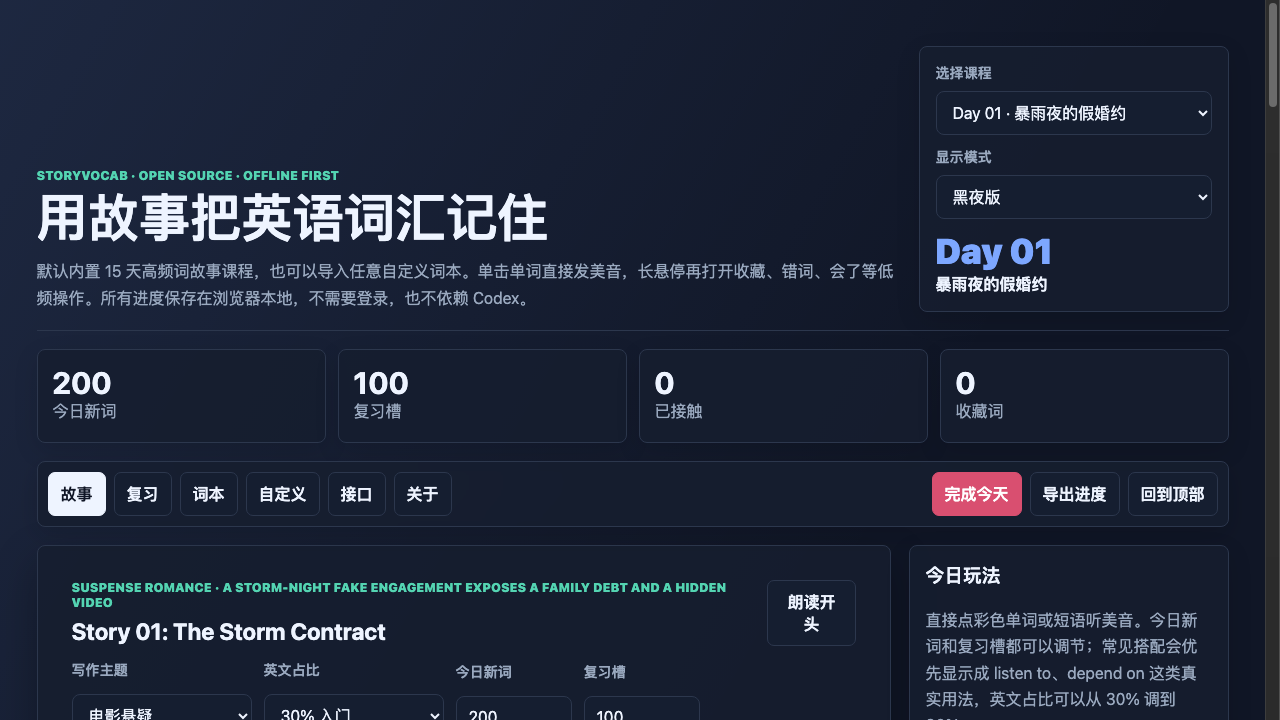
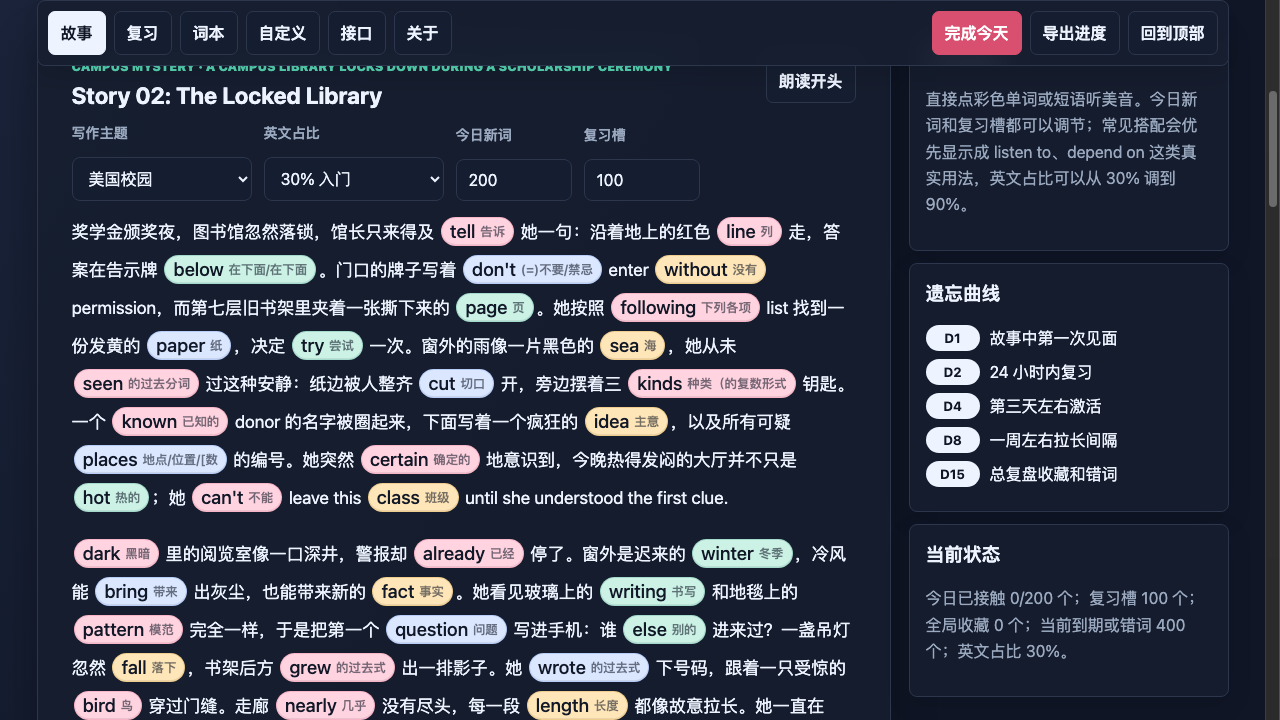
Add authored Day 02 story

diff --git a/src/app.js b/src/app.js
@@ -367,9 +367,32 @@
     return `${profile.mixed[paragraphIndex % profile.mixed.length]} ${c(0)} 先把场景点亮，and ${c(1)} pushed the story forward. 她在 ${c(2)} 和 ${c(3)} 之间做选择，while ${c(4)} kept changing the room. Someone tried to explain ${c(5)}，可真正的问题是 ${c(6)}. Then ${c(7)} became a promise, ${c(8)} became a warning, and ${c(9)} made everyone quiet. 她把 ${c(10)} 写在便签上，把 ${c(11)} 藏进口袋。By the time ${c(12)} appeared, she had to keep ${c(13)} close, test ${c(14)}, and follow the trace of ${c(15)}. 最后一段路上，${c(16)}, ${c(17)}, ${c(18)}, and ${c(19)} together turned the story into a choice.`;
   }
 
+  function dayTwoLockedLibraryStory(items, density) {
+    if (density >= 90) return "";
+    const c = (index) => items[index] ? chip(items[index]) : "";
+    const paragraphs = [
+      `奖学金颁奖夜，图书馆忽然落锁，馆长只来得及 ${c(0)} 她一句：沿着地上的红色 ${c(1)} 走，答案在告示牌 ${c(2)}。门口的牌子写着 ${c(3)} enter ${c(4)} permission，而第七层旧书架里夹着一张撕下来的 ${c(5)}。她按照 ${c(6)} list 找到一份发黄的 ${c(7)}，决定 ${c(8)} 一次。窗外的雨像一片黑色的 ${c(9)}，她从未 ${c(10)} 过这种安静：纸边被人整齐 ${c(11)} 开，旁边摆着三 ${c(12)} 钥匙。一个 ${c(13)} donor 的名字被圈起来，下面写着一个疯狂的 ${c(14)}，以及所有可疑 ${c(15)} 的编号。她突然 ${c(16)} 地意识到，今晚热得发闷的大厅并不只是 ${c(17)}；她 ${c(18)} leave this ${c(19)} until she understood the first clue.`,
+      `${c(20)} 里的阅览室像一口深井，警报却 ${c(21)} 停了。窗外是迟来的 ${c(22)}，冷风能 ${c(23)} 出灰尘，也能带来新的 ${c(24)}。她看见玻璃上的 ${c(25)} 和地毯上的 ${c(26)} 完全一样，于是把第一个 ${c(27)} 写进手机：谁 ${c(28)} 进来过？一盏吊灯忽然 ${c(29)}，书架后方 ${c(30)} 出一排影子。她 ${c(31)} 下号码，跟着一只受惊的 ${c(32)} 穿过门缝。走廊 ${c(33)} 没有尽头，每一段 ${c(34)} 都像故意拉长。她一直在 ${c(35)} 保持冷静，可唯一的 ${c(36)} 太 ${c(37)}：那些缺失的 ${c(38)} 正在自己 ${c(39)} 回来。`,
+      `八点整，墙上的钟只响了 ${c(40)} 下，东侧 ${c(41)} 却打开一道暗缝。她按箭头 ${c(42)} 走，却得到两组相反 ${c(43)}。楼梯间里，某人的 ${c(44)} 从黑布 ${c(45)} 后伸出来，把一台旧投影仪的 ${c(46)} 说明塞给她：这里像一座被切开的 ${c(47)}。十二名 ${c(48)} 在 ${c(49)} 号房间失踪过，又在次日 ${c(50)}。那天 ${c(51)}，校方说只是一次 ${c(52)} 仪式，可档案里的 ${c(53)} 指向西翼。她用 ${c(54)} 摸过墙上的凹槽，朝 ${c(55)} 走去。有人在楼下 ${c(56)}，说保险箱还 ${c(57)}；她却看见椅子上 ${c(58)} 着一本册子，第一页 ${c(59)} 她父亲的签名。`,
+      `册子里没有钱，只有一小包 ${c(60)}、一页校规 ${c(61)}，和一张说明整个 ${c(62)} 的钢印图。图中央是一根 ${c(63)} 柱，旁边写着 ${c(64)} 的名字。这个 ${c(65)} 与年长的 ${c(66)} 教授有关，教授年轻时教 ${c(67)}，语气熟悉得让人 ${c(68)}。她刚把资料收好，书架就被人 ${c(69)} 了一下，二十本书像多米诺骨牌倒下。她听见一声 ${c(70)}，像有人在喊 dear，却又像在 ${c(71)}。储藏室里有半块三明治、几种 ${c(72)}，还有学生会本来 ${c(73)} 会用的元音卡。她本来 ${c(74)} 会看到普通的 ${c(75)} 练习，说明却 ${c(76)} 出彼此 ${c(77)} 的案件，最终指向一个尚未发生的 ${c(78)}，地点写着 ${c(79)}。`,
+      `第二层的社区展厅被改成临时法庭，整个 ${c(80)} 都在屏幕上静音旁观。她推门进去，管理员 ${c(81)} 了一下，像早就等她来，又像被她 ${c(82)} 了。想要 ${c(83)} 这场局，她必须先找出哪一张 ${c(84)} 被调换。她用手 ${c(85)} 开桌面，发现那份文件并不 ${c(86)} 于学校，而是来自一份 ${c(87)} 报告。旁边整齐摆着几件 ${c(88)}、一张 ${c(89)} 航线图和一份学生对事件的 ${c(90)}。固定电话 ${c(91)} 忽然响起，听筒旁压着一个 ${c(92)}，碗底画着整个图书馆的 ${c(93)}。她沿着 ${c(94)} 追到楼梯口，荒唐得有点 ${c(95)}：${c(96)} 年前，那个被大家 ${c(97)} 的男孩留下最后一声 ${c(98)}，然后从不同 ${c(99)} 被抹掉。`,
+      `墙上的符号开始 ${c(100)} 她去洗手间。水槽下的管道还在 ${c(101)} 水，镜子背面藏着一份 ${c(102)} 转让书。保安说管理员正在 ${c(103)}，可走廊里像有成群的 ${c(104)} 在爬。档案提到废弃 ${c(105)}、一次 ${c(106)} 听证会和一场假装成意外的 ${c(107)}。地球仪旁边的标签写着 ${c(108)} axis，旁边一个玻璃 ${c(109)} 里装着所有捐款的 ${c(110)}。名单上只 ${c(111)} 三个人，证词却 ${c(112)} 了第四个人存在。她想起父亲，低声喊了一句 ${c(113)}。灯光的 ${c(114)} 变得像鼓点，雨的 ${c(115)} 正好盖住脚步声。为了 ${c(116)} 被发现，她把文件分成几个 ${c(117)}，用最后一点 ${c(118)} 把金属 ${c(119)} 插进锁孔。`,
+      `锁开的瞬间，影子 ${c(120)} 了。${c(121)} 年前的录像从屏幕上跳出来：她的 ${c(122)} 在 ${c(123)} 的大厅里举着证词，审判已经 ${c(124)}，每个人都被 ${c(125)} 签名。桌上有一团 ${c(126)}、数字 ${c(127)}、一个旅行 ${c(128)} 和写着 ${c(129)} 的旧车票。票背面是一条 ${c(130)} 路线，终点不是医院也不是 ${c(131)}，而是给所有 ${c(132)} 的公开听证。照片里站着一位 ${c(133)} 学者，他的 ${c(134)} 是证明早期 ${c(135)} 被非法转移。墙上 ${c(136)} 的箭头让她必须重新 ${c(137)} 每一份材料。她想退，可 ${c(138)} 已经太晚，只能 ${c(139)} 一遍：真相不是奖学金，而是谁偷走了别人的未来。`,
+      `她把线索 ${c(140)} 到一起，用绳结 ${c(141)} 在桌脚上。数量 ${c(142)} 对不上，最后一盏 ${c(143)} 却突然亮起，照出地下室的旧 ${c(144)} 轨道。冷风 ${c(145)} 过来，像有人仍在里面呼吸。她保持 ${c(146)}，因为校长已经 ${c(147)} 她的声音；下一步必须 ${c(148)} 得像一场演讲。线索的 ${c(149)} 竟是一张 ${c(150)} 表：屏幕 ${c(151)} 上从原始 ${c(152)} 到现代系统的记录全被 ${c(153)}。外面停着几辆 ${c(154)}，资料却写着某个 ${c(155)}、佛罗里达 ${c(156)}、一群 ${c(157)} 和火星 ${c(158)} 计划。看似荒诞的垂直 ${c(159)}，其实是隐藏资金流的坐标。`,
+      `她把所有材料 ${c(160)} 好，准备 ${c(161)} 住最后的证据。炉膛里一团 ${c(162)} 跳动，墙上的牛仔海报 ${c(163)} 旁贴着一张空白选择权，像在说谁也别乱 ${c(164)}。她敲门说 ${c(165)}，无人回应；图书馆 ${c(166)} 却突然发生变化，像程序 ${c(167)} 了自检。楼下的 ${c(168)} 已经进来，门禁显示所有格子都被 ${c(169)} 过。她用 ${c(170)} 拍下 ${c(171)} 秒证据，避开两处 ${c(172)} 和一只被拴住的 ${c(173)}。展台上有一组 ${c(174)}，对应整个 ${c(175)}。所有 ${c(176)} 被倒成一圈，机器 ${c(177)} 哼着同一段 ${c(178)}，定位却落在 ${c(179)}。`,
+      `最后的档案来自 ${c(180)}，封面写着 ${c(181)}。她 ${c(182)} 了揉眼睛，重新确认自己的 ${c(183)}：不是赢一次辩论，而是把故事放回网上。她把资料传到 ${c(184)}，同时保存 ${c(185)} 备份；旧合同的 ${c(186)}、证据 ${c(187)}、整套 ${c(188)} 图纸和行动 ${c(189)} 全部公开。她终于明白，这座图书馆不是由砖头 ${c(190)} 灯光组成，而是由每个愿意 ${c(191)} 真相站在一起的人组成。她问自己 ${c(192)} matters now；答案是 ${c(193)} person ${c(194)} a voice, and the one ${c(195)} lost it still deserves it. 天快亮时，一点 ${c(196)} 勇气变成很 ${c(197)} 的结局。她环顾 ${c(198)}，轻声说：the truth is ${c(199)}.`
+    ];
+    return paragraphs
+      .filter((_, paragraphIndex) => items[paragraphIndex * 20])
+      .map((paragraph) => `<p>${paragraph}</p>`)
+      .join("");
+  }
+
   function buildStory(items, selectedTheme, selectedDensity = state.englishDensity) {
     const theme = selectedTheme || state.theme || frameCycle[state.currentDay - 1] || "cinematic";
     const density = Number(selectedDensity) || DEFAULT_DENSITY;
+    const authored = state.currentDay === 2 ? dayTwoLockedLibraryStory(items, density) : "";
+    if (authored) return authored;
     const frames = storyFrames[theme] || storyFrames.cinematic;
     const paragraphs = [];
     for (let i = 0; i < items.length; i += 20) {

diff --git a/README.md b/README.md
@@ -17,6 +17,7 @@ Most vocabulary tools make learners stare at isolated words. StoryVocab puts wor
 - **Adjustable daily load**: start from the default 200 new words and 100 review slots, then tune both counts for the day.
 - **Story-first reading**: words are mixed by frequency and story context instead of alphabetic order.
 - **Gentle difficulty ramp**: Day 01 stays easy to enter, then later days surface slightly richer words earlier in each story.
+- **Authored daily episodes**: Day 02 now continues with a more coherent locked-library campus mystery while keeping all word chips interactive.
 - **Adjustable English density**: switch the story between roughly 30%, 50%, and 90% English for a gradual difficulty climb.
 - **Phrase-aware chips**: common words can appear as natural phrases such as `listen to`, `depend on`, and `according to`.
 - **Light and dark themes**: the app opens in dark mode by default and lets learners switch back to a bright reading theme.